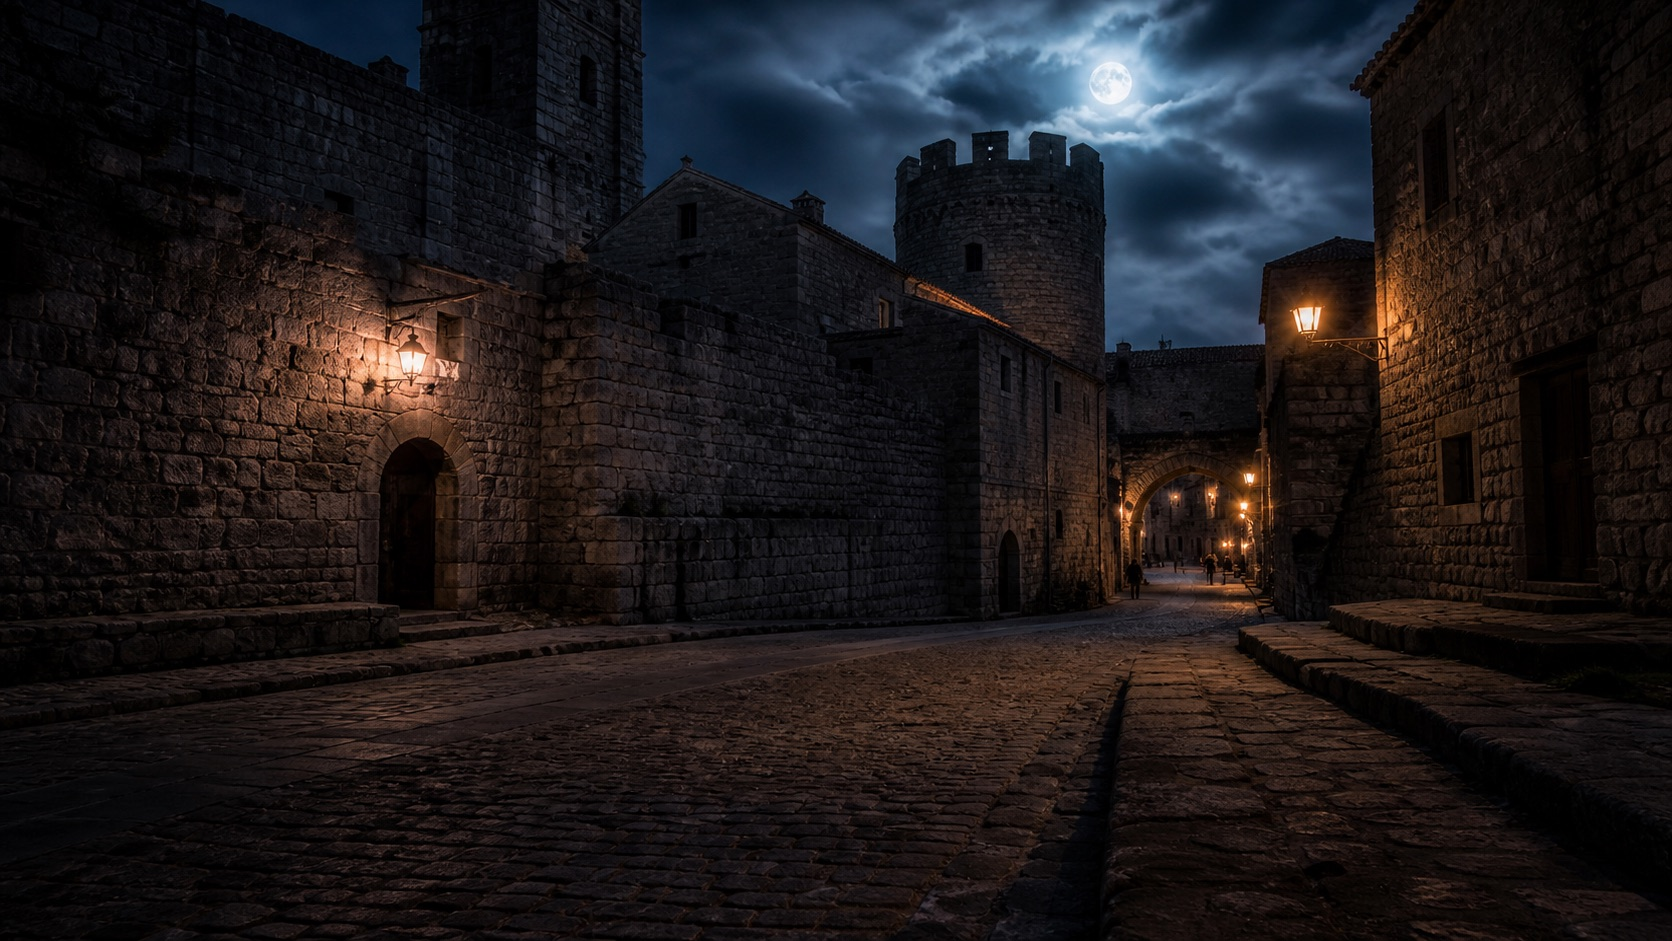
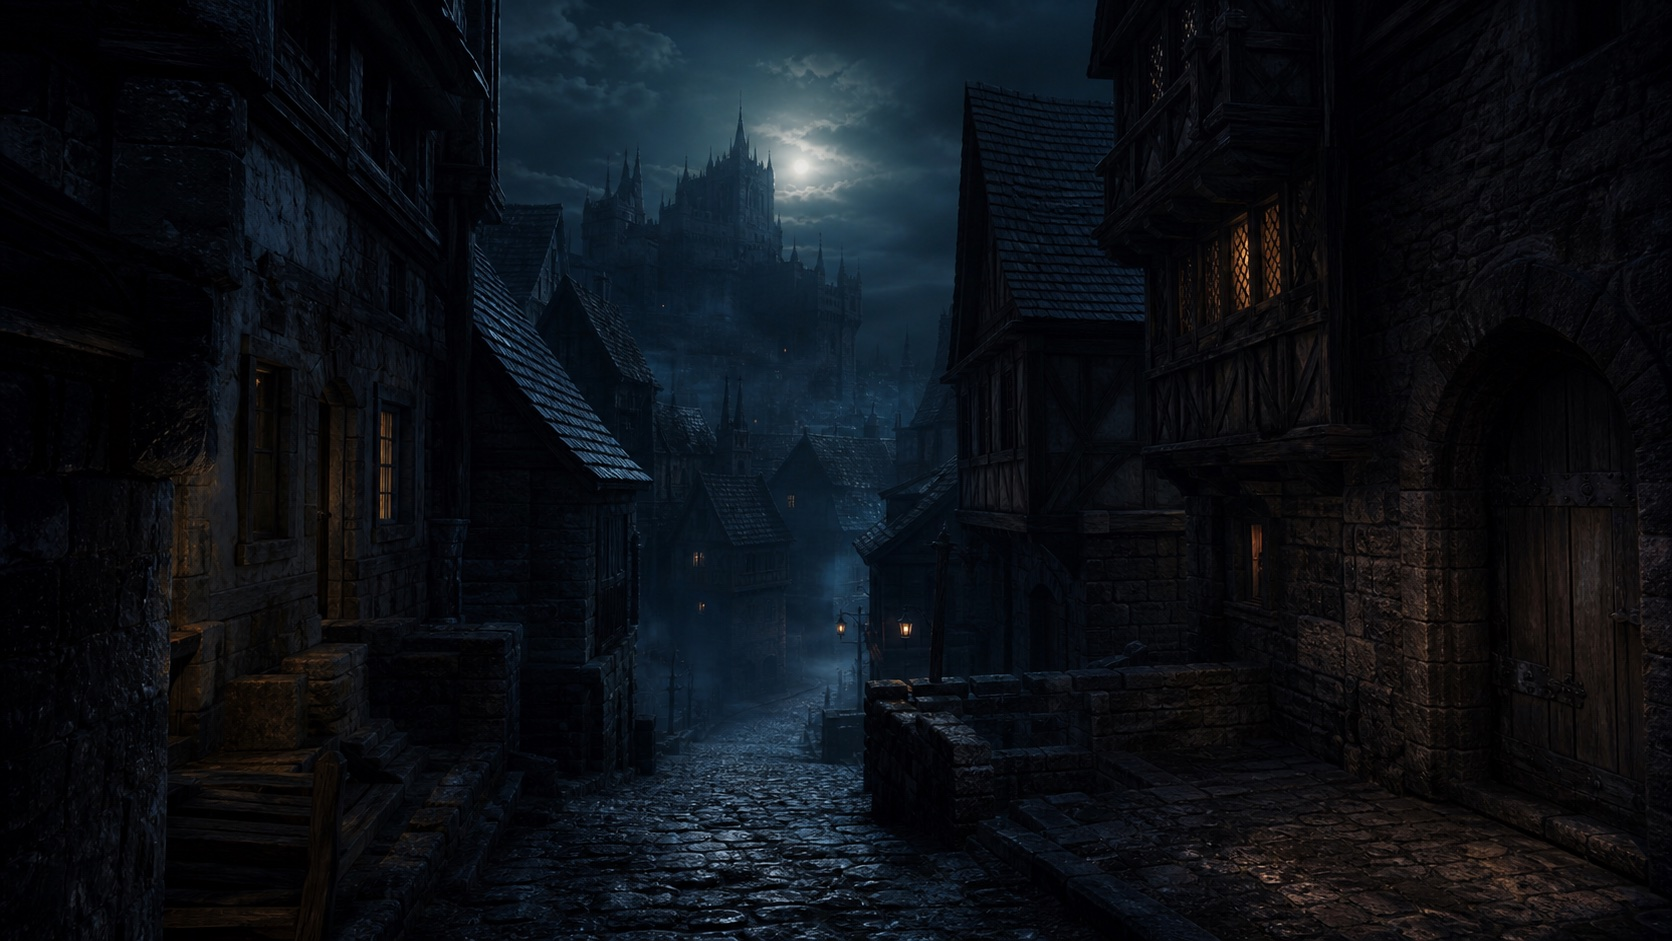
feat: migliora atmosfere notturne e suoni

diff --git a/src/utils/audioAmbiente.js b/src/utils/audioAmbiente.js
@@ -28,6 +28,7 @@ let currentVolume = 0.5;
 let ambienteAttivo = '';   // id dell'ambientazione in riproduzione (per il volume della base)
 let intervalTimer = null;
 let grilliTimer = null;    // overlay notturno (grilli/insetti) per gli ambienti all'aperto
+let presagiTimer = null;   // richiami notturni rari e contestuali, separati dagli altri eventi
 let watchdogTimer = null;  // sorveglia il loop <audio> e lo fa ripartire se si blocca
 
 // Ambientazioni all'aperto che, di notte, ricevono un velo di grilli/insetti
@@ -63,12 +64,12 @@ const ESTENSIONE_FILE = { citta: 'ogg' };
 // Alcune ambientazioni hanno registrazioni dedicate per la modalità notturna.
 // La montagna usa lo stesso vento naturale in entrambe le modalità: di notte
 // viene attenuato dall'app e arricchito soltanto da rarissimi lupi lontani.
-const AMBIENTI_FILE_NOTTE = new Set();
+const AMBIENTI_FILE_NOTTE = new Set(['montagna']);
 
 // Volume della base rispetto al volume dell'ambiente (1 = invariato).
 // Città: il brusio di voci sta parecchio sotto, così a emergere sono i suoni
 // medievali (campane, fabbro, carretti) invece del chiacchiericcio.
-const VOLUME_BASE = { citta: 0.5 };
+const VOLUME_BASE = { citta: 0.5, montagna: 1.35 };
 
 function ambienteFileUrl(id, notte = false) {
   if (!AMBIENTI_CON_FILE.has(id)) return null;
@@ -253,6 +254,10 @@ export function fermaAmbiente() {
     clearInterval(grilliTimer);
     grilliTimer = null;
   }
+  if (presagiTimer) {
+    clearTimeout(presagiTimer);
+    presagiTimer = null;
+  }
   activeNodes.forEach(node => {
     try {
       if (node.stop) node.stop();
@@ -281,7 +286,7 @@ export function setVolumeAmbiente(val) {
     }
   });
   if (htmlAudioElement) {
-    htmlAudioElement.volume = currentVolume * fattoreVolumeBase(ambienteAttivo);
+    htmlAudioElement.volume = Math.min(1, currentVolume * fattoreVolumeBase(ambienteAttivo));
   }
 }
 
@@ -384,6 +389,32 @@ function avviaGrilliNotturni() {
   programmaCoro();
 }
 
+/** Aggiunge alla notte presenze lontane e irregolari, sempre coerenti col luogo. */
+function avviaPresagiNotturni(id) {
+  const ctx = getAudioContext();
+  if (!ctx) return;
+  let ultimo = '';
+  const tavolo = {
+    foresta: ['verso', 'eco'], palude: ['verso', 'verso', 'eco'],
+    citta: ['campana', 'eco'], mercato: ['campana', 'eco'], taverna: ['eco'],
+    accampamento: ['lupo', 'eco'], deserto: ['eco', 'verso'], tundra: ['lupo', 'eco'],
+    mare: ['eco', 'verso'], tempesta: ['eco'], tempio: ['magic', 'eco'], notte: ['lupo', 'verso'],
+  };
+  const eventi = tavolo[id];
+  if (!eventi?.length) return;
+  const programma = (primo = false) => {
+    presagiTimer = setTimeout(() => {
+      programma();
+      if (!ctx || ctx.state !== 'running' || (typeof document !== 'undefined' && document.hidden)) return;
+      const candidati = eventi.filter((evento) => evento !== ultimo);
+      const evento = candidati[Math.floor(Math.random() * candidati.length)] || eventi[0];
+      ultimo = evento;
+      playSfx(evento, currentVolume * (0.10 + Math.random() * 0.08));
+    }, (primo ? 14000 : 30000) + Math.random() * (primo ? 16000 : 42000));
+  };
+  programma(true);
+}
+
 /**
  * Avvia il tema sonoro prescelto.
  * @param {boolean} notte - se true e l'ambiente è all'aperto, aggiunge i grilli notturni.
@@ -417,7 +448,7 @@ export function avviaAmbiente(id, volume = 0.5, urlCustom = '', notte = false) {
   if (fileUrl) {
     htmlAudioElement = new Audio(fileUrl);
     htmlAudioElement.loop = true;
-    htmlAudioElement.volume = currentVolume * fattoreVolumeBase(id);
+    htmlAudioElement.volume = Math.min(1, currentVolume * fattoreVolumeBase(id));
     htmlAudioElement.setAttribute('playsinline', '');
     htmlAudioElement.setAttribute('webkit-playsinline', '');
     // Se il loop dovesse comunque terminare (glitch del browser), ricominciamo.
@@ -430,6 +461,7 @@ export function avviaAmbiente(id, volume = 0.5, urlCustom = '', notte = false) {
     });
     avviaWatchdogAudio();
     if (conGrilli) avviaGrilliNotturni();
+    if (notte) avviaPresagiNotturni(id);
     // Città medievale: sopra la base di folla si sentono ogni tanto campane,
     // il fabbro che batte sull'incudine e i carretti che passano.
     if (id === 'citta') {
@@ -487,14 +519,14 @@ export function avviaAmbiente(id, volume = 0.5, urlCustom = '', notte = false) {
     if (id === 'montagna') {
       precaricaSfx();
       const programmaRichiamo = (primo = false) => {
-        const minimo = primo ? 30000 : notte ? 90000 : 60000;
-        const intervallo = primo ? 40000 : notte ? 110000 : 80000;
+        const minimo = primo ? 7000 : notte ? 42000 : 38000;
+        const intervallo = primo ? 9000 : notte ? 50000 : 45000;
         intervalTimer = setTimeout(() => {
           programmaRichiamo();
           const ctx = getAudioContext();
           if (!ctx || ctx.state !== 'running' || (typeof document !== 'undefined' && document.hidden)) return;
-          if (Math.random() < (notte ? 0.58 : 0.42)) {
-            playSfx(notte ? 'lupo' : 'aquila', currentVolume * (notte ? 0.18 : 0.16));
+          if (primo || Math.random() < (notte ? 0.72 : 0.58)) {
+            playSfx(notte ? 'lupo' : 'aquila', currentVolume * (notte ? 0.25 : 0.22));
           }
         }, minimo + Math.random() * intervallo);
       };

diff --git a/src/App.jsx b/src/App.jsx
@@ -875,7 +875,8 @@ const COMP_ARMI_5E = ['Armi semplici', 'Armi da guerra', ...ARMI_5E.map((w) => w
 
 const STORAGE_KEY = 'scheda-interattiva:v1';
 const STORAGE_KEY_LEGACY = 'tavolo-dei-dadi:scheda:v1';
-const APP_VERSION = '2.61.0';
+const APP_VERSION = '2.62.0';
+const ORDINE_AMBIENTAZIONI = ['default', 'taverna', 'mercato', 'citta', 'accampamento', 'foresta', 'palude', 'montagna', 'tundra', 'deserto', 'mare', 'tempesta', 'dungeon', 'tempio'];
 
 function nuovoId() {
   return 'pg-' + Date.now().toString(36) + Math.random().toString(36).slice(2, 6);
@@ -2318,10 +2319,9 @@ export default function App() {
 
   /** Tira per colpire con un'arma e, se è a munizioni, ne scala una dall'inventario. */
   function tiraColpoArma(a) {
-    const armaNota = ARMI_5E.find((arma) => arma.nome === a.nome);
-    const aDistanza = Boolean(armaNota?.ranged) || /arco|balestra|fionda|cerbottana/i.test(a.nome || '');
-    const suono = a.isSpell ? 'magia' : aDistanza ? 'arco' : 'arma';
-    lanciaD20(`Attacco: ${a.nome}`, a.bonus, { attacco: a, magia: !!a.isSpell, suono });
+    // Il tiro per colpire è sempre un d20: spada, freccia e magia suonano solo
+    // quando si tirano i rispettivi danni.
+    lanciaD20(`Attacco: ${a.nome}`, a.bonus, { attacco: a, magia: !!a.isSpell, suono: 'tiro' });
     if (!a.isSpell) consumaMunizione(a.nome);
   }
 
@@ -4396,7 +4396,7 @@ export default function App() {
 
           {/* Ambientazioni: un click applica palette + sfondo + audio abbinato */}
           <div style={{ display: 'grid', gridTemplateColumns: 'repeat(2, minmax(0, 1fr))', gap: 5 }}>
-            {PRESET_COLORI.map((p) => {
+          {[...PRESET_COLORI].sort((a, b) => ORDINE_AMBIENTAZIONI.indexOf(a.id) - ORDINE_AMBIENTAZIONI.indexOf(b.id)).map((p) => {
               const attivo = presetColori === p.id;
               const conSuono = p.audio && p.audio !== 'spento';
               return (
@@ -5647,7 +5647,7 @@ export default function App() {
                                         style={{ ...styles.buttonMini, padding: '1px 6px', marginRight: 4, opacity: castBloccato ? 0.4 : 1, cursor: castBloccato ? 'not-allowed' : 'pointer' }}
                                         title={castBloccato ? 'Equipaggia un focus per lanciare questo incantesimo' : `Tira i danni (${a.danno})`}
                                         disabled={castBloccato}
-                                        onClick={() => { if (!castBloccato) lanciaDanniDiretti(`Danni: ${a.nome}`, a.danno); }}
+                                        onClick={() => { if (!castBloccato) tiraDanniPerAttacco(a, false); }}
                                       >🎲</button>
                                     )}
                                     <Editable
@@ -5979,7 +5979,7 @@ export default function App() {
                                       <button
                                         style={{ ...styles.buttonMini, fontSize: 12, padding: '3px 8px', fontWeight: 600, borderColor: C.goldDark, color: C.goldDark, whiteSpace: 'nowrap' }}
                                         title={`${t('spell.tira_attacco')} — ${t('spell.colpire')}`}
-                                        onClick={() => lanciaD20(`${t('spell.attacco_inc')}: ${s.nome}`, scheda.bonusCompetenza + (modIncantatore || 0), { attacco: { nome: s.nome, danno, tipoDanno }, magia: true })}
+                                        onClick={() => lanciaD20(`${t('spell.attacco_inc')}: ${s.nome}`, scheda.bonusCompetenza + (modIncantatore || 0), { attacco: { nome: s.nome, danno, tipoDanno, isSpell: true }, magia: true, suono: 'tiro' })}
                                       >🎯 {conSegno(scheda.bonusCompetenza + (modIncantatore || 0))}</button>
                                       <button
                                         className="tirabile"
